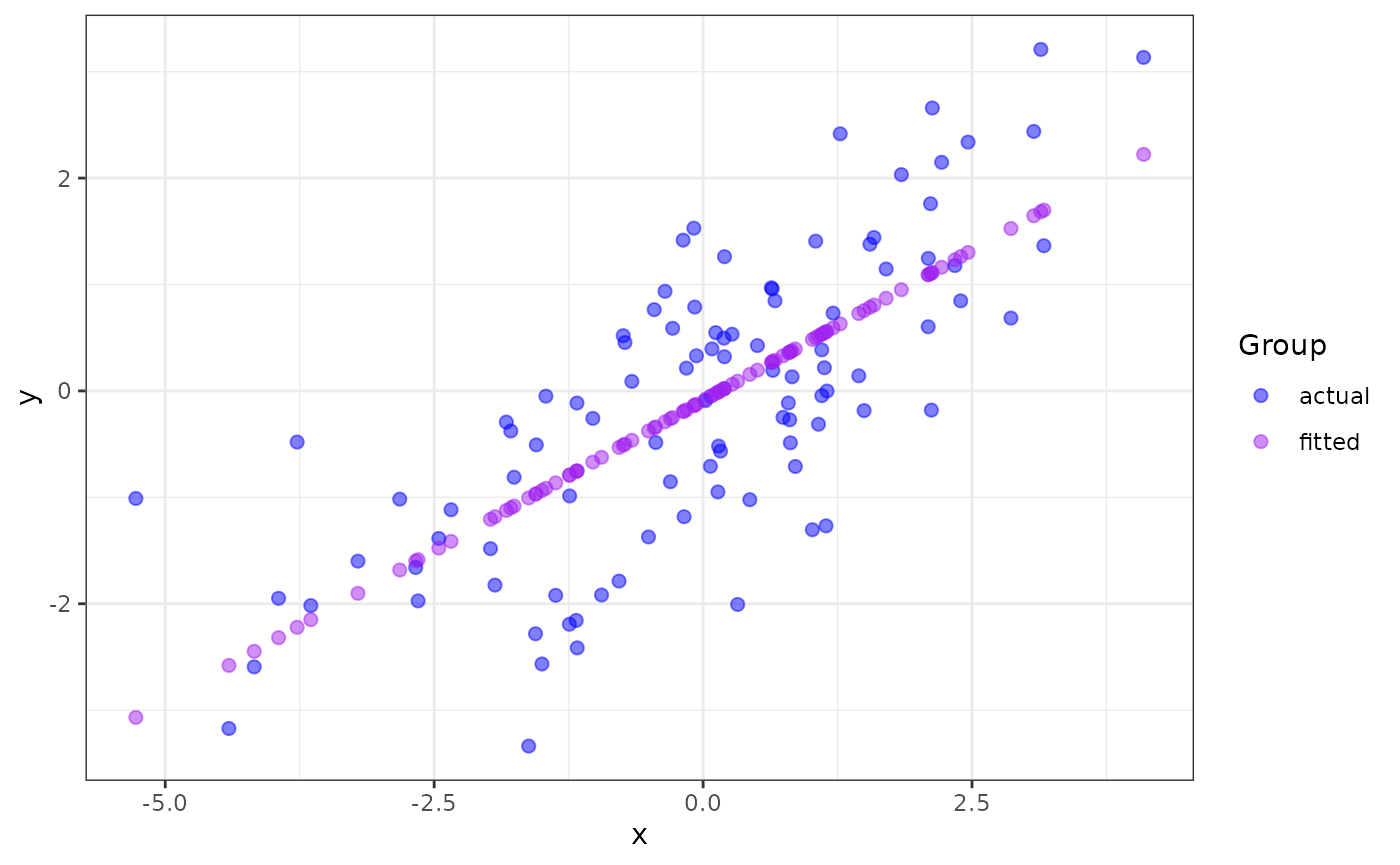
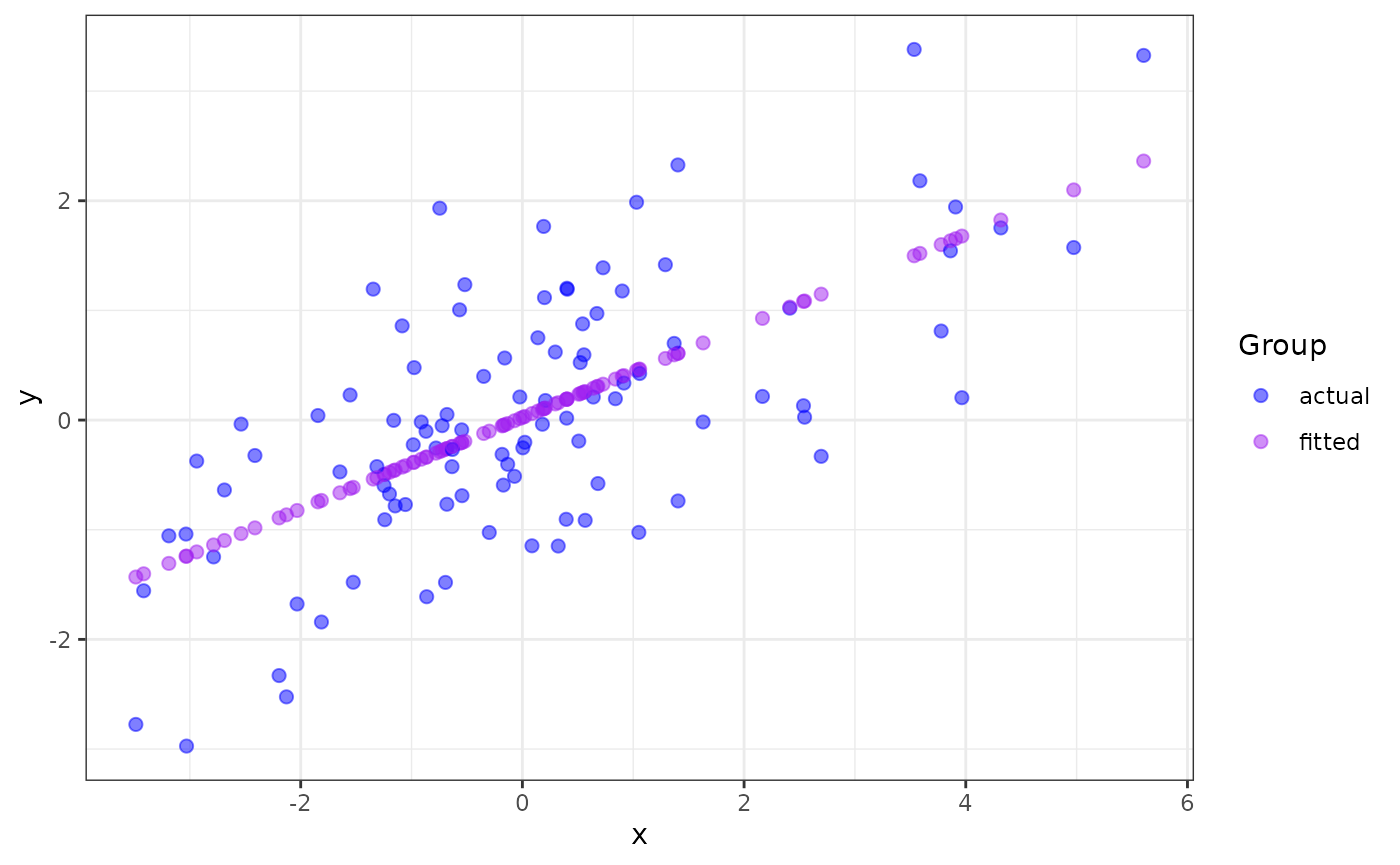
Built site for ggmatplot: 0.1.0@db3751a

diff --git a/articles/ggmatplot.html b/articles/ggmatplot.html
@@ -101,7 +101,7 @@
 <span class="va">x</span> <span class="op">&lt;-</span> <span class="fu"><a href="https://rdrr.io/r/base/c.html">c</a></span><span class="op">(</span><span class="fu"><a href="https://rdrr.io/r/stats/Normal.html">rnorm</a></span><span class="op">(</span><span class="fl">100</span>, sd <span class="op">=</span> <span class="fl">2</span><span class="op">)</span><span class="op">)</span>
 
 <span class="fu"><a href="https://rdrr.io/r/utils/head.html">head</a></span><span class="op">(</span><span class="va">x</span><span class="op">)</span>
-<span class="co">#&gt; [1] -1.17240952 -0.06189239  0.08247443 -1.93457137  0.85741968  0.63425102</span>
+<span class="co">#&gt; [1] -1.1475979  3.9079210  1.4028963  0.1806645  0.6816064 -0.8693359</span>
 
 <span class="co"># matrix z</span>
 <span class="va">y</span> <span class="op">&lt;-</span> <span class="va">x</span> <span class="op">*</span> <span class="fl">0.5</span> <span class="op">+</span> <span class="fu"><a href="https://rdrr.io/r/stats/Normal.html">rnorm</a></span><span class="op">(</span><span class="fl">100</span>, sd <span class="op">=</span> <span class="fl">1</span><span class="op">)</span>
@@ -110,13 +110,13 @@
            fitted <span class="op">=</span> <span class="va">fit.y</span><span class="op">)</span>
 
 <span class="fu"><a href="https://rdrr.io/r/utils/head.html">head</a></span><span class="op">(</span><span class="va">z</span><span class="op">)</span>
-<span class="co">#&gt;       actual      fitted</span>
-<span class="co">#&gt; 1 -0.1136823 -0.75204805</span>
-<span class="co">#&gt; 2  0.3303146 -0.12487097</span>
-<span class="co">#&gt; 3  0.3950208 -0.04333818</span>
-<span class="co">#&gt; 4 -1.8245270 -1.18248755</span>
-<span class="co">#&gt; 5 -0.7097594  0.39432089</span>
-<span class="co">#&gt; 6  0.9693819  0.26828387</span></code></pre></div>
+<span class="co">#&gt;        actual      fitted</span>
+<span class="co">#&gt; 1 -0.78277489 -0.45518954</span>
+<span class="co">#&gt; 2  1.94318309  1.65404729</span>
+<span class="co">#&gt; 3  2.32646421  0.60891415</span>
+<span class="co">#&gt; 4 -0.03803116  0.09898106</span>
+<span class="co">#&gt; 5 -0.57885304  0.30798140</span>
+<span class="co">#&gt; 6 -0.10233428 -0.33909453</span></code></pre></div>
 <p><code>ggmatplot</code> plots vector <code>x</code> against each column of matrix <code>z</code> using the default <code>plot_type = "point"</code>. This will be represented on the resulting plot as two groups, identified using different shapes and colors.</p>
 <div class="sourceCode" id="cb2"><pre class="downlit sourceCode r">
 <code class="sourceCode R"><span class="kw"><a href="https://rdrr.io/r/base/library.html">library</a></span><span class="op">(</span><span class="va"><a href="https://github.com/xuan-liang/ggmatplot">ggmatplot</a></span><span class="op">)</span>
